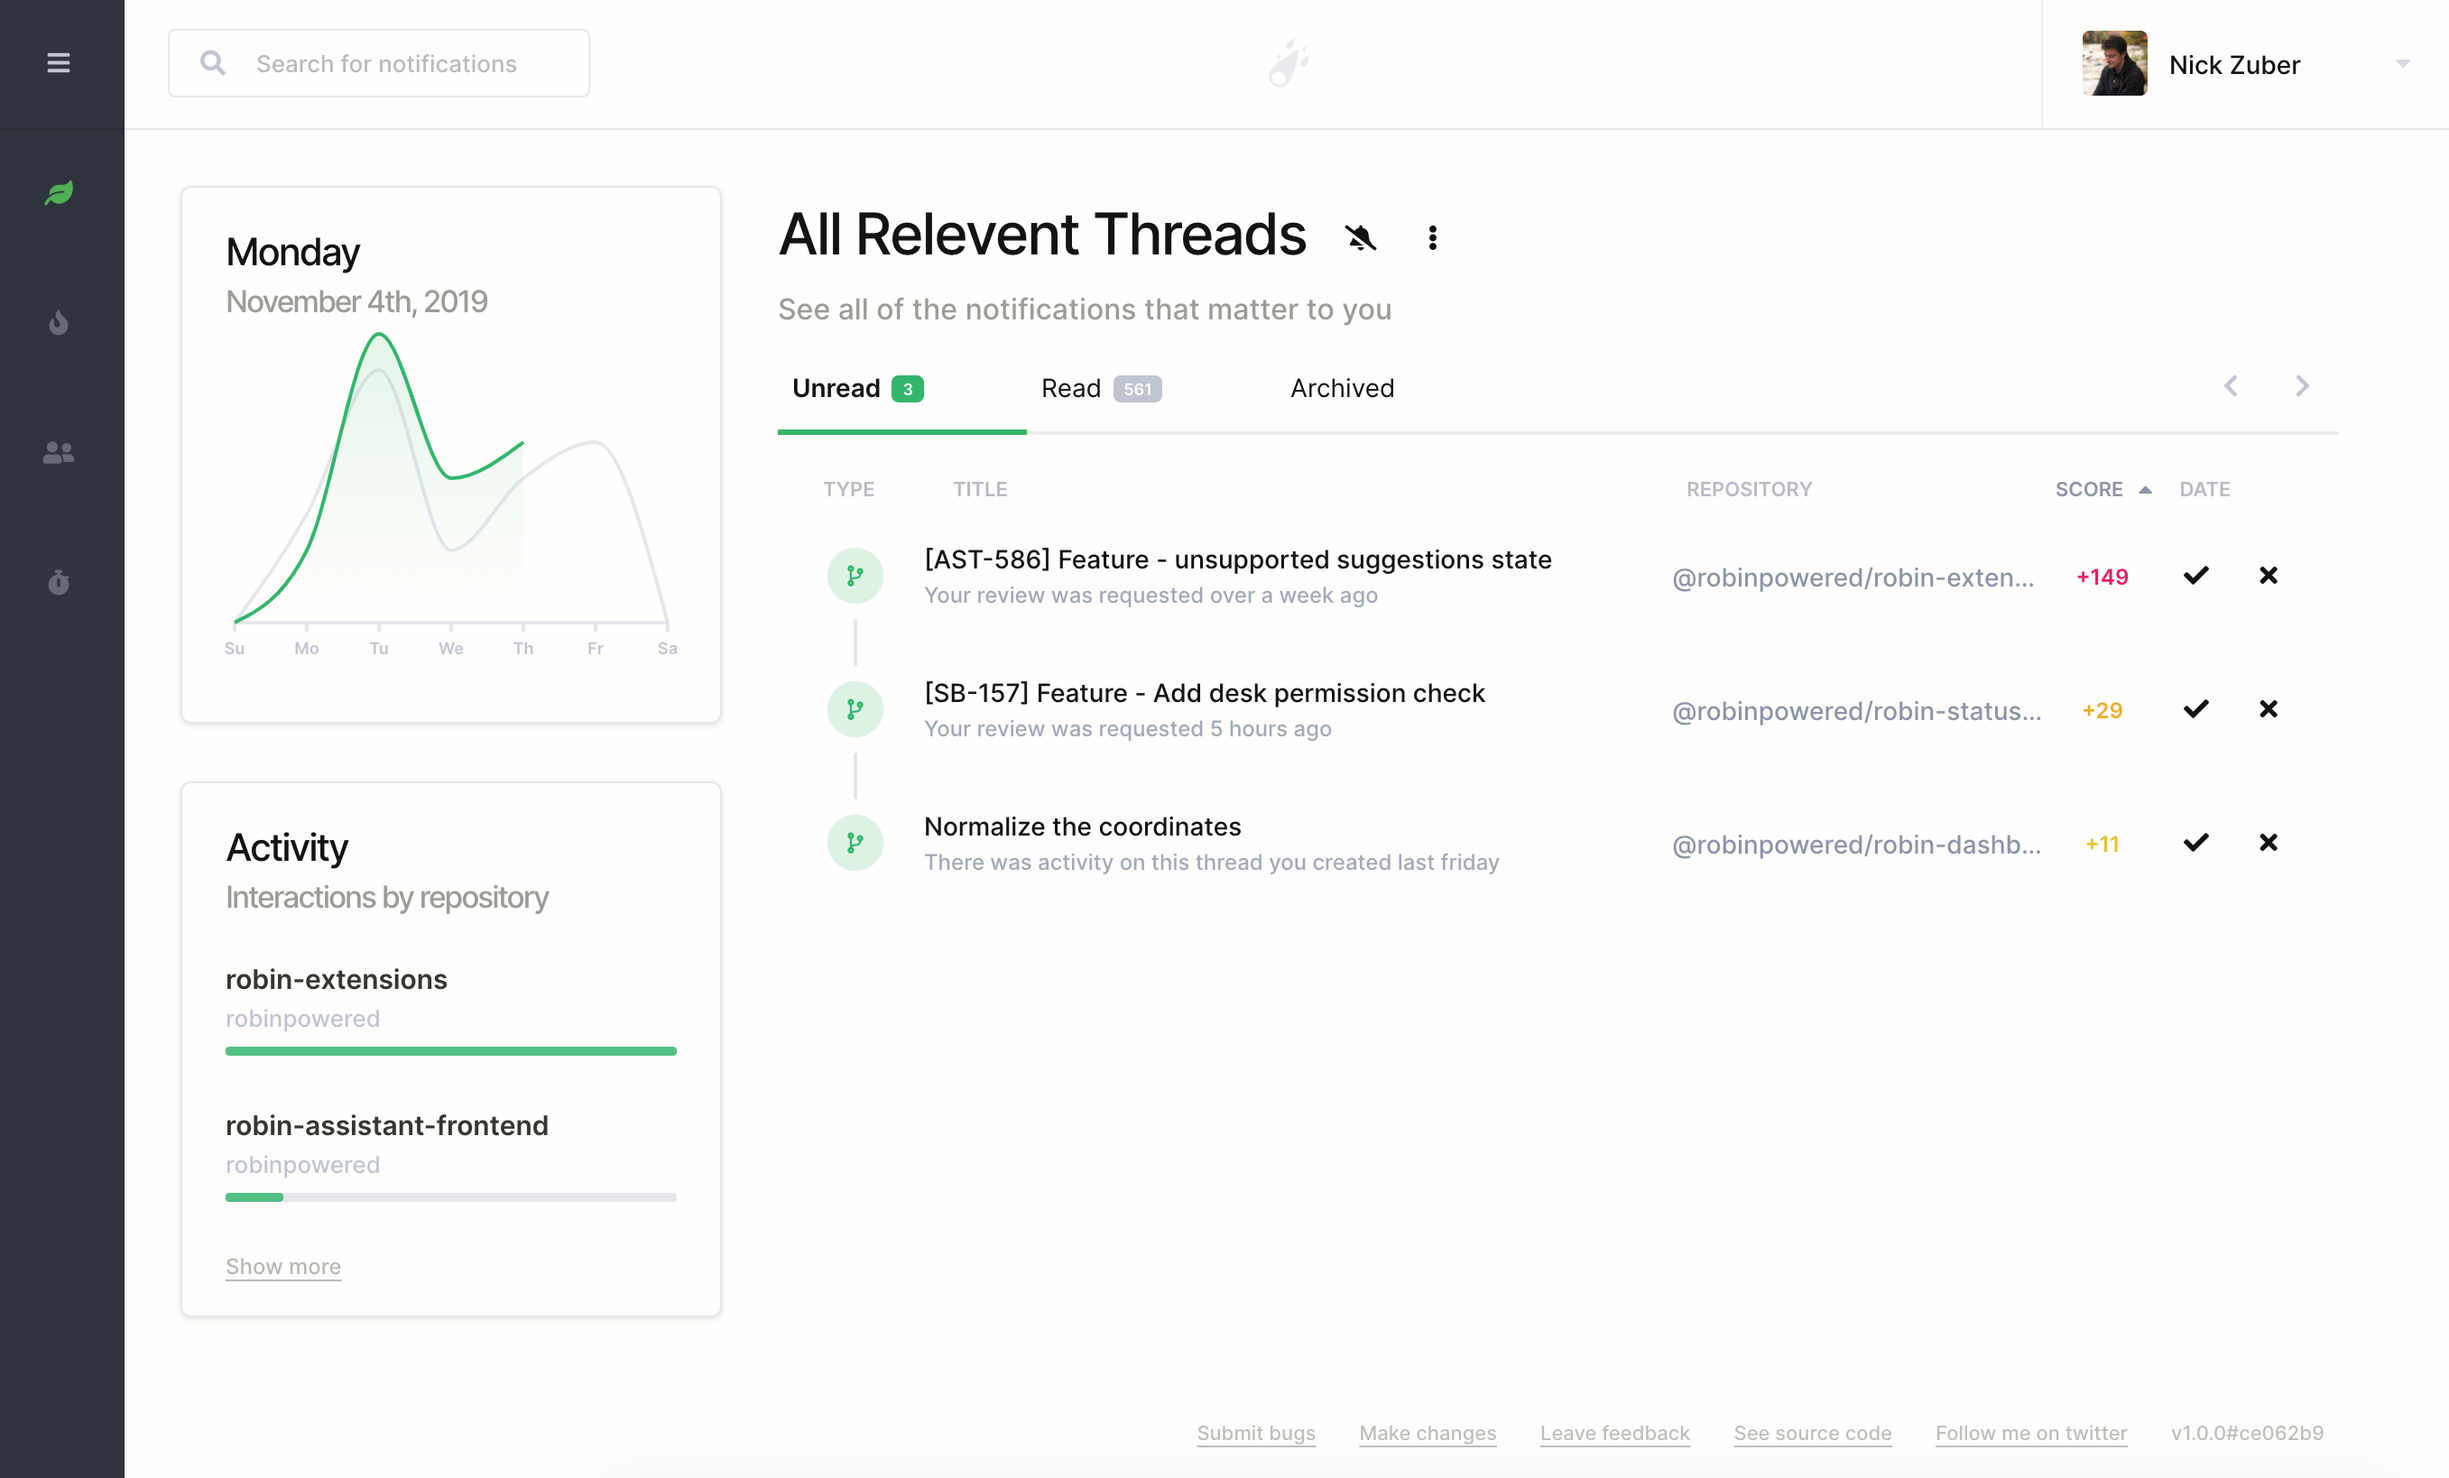
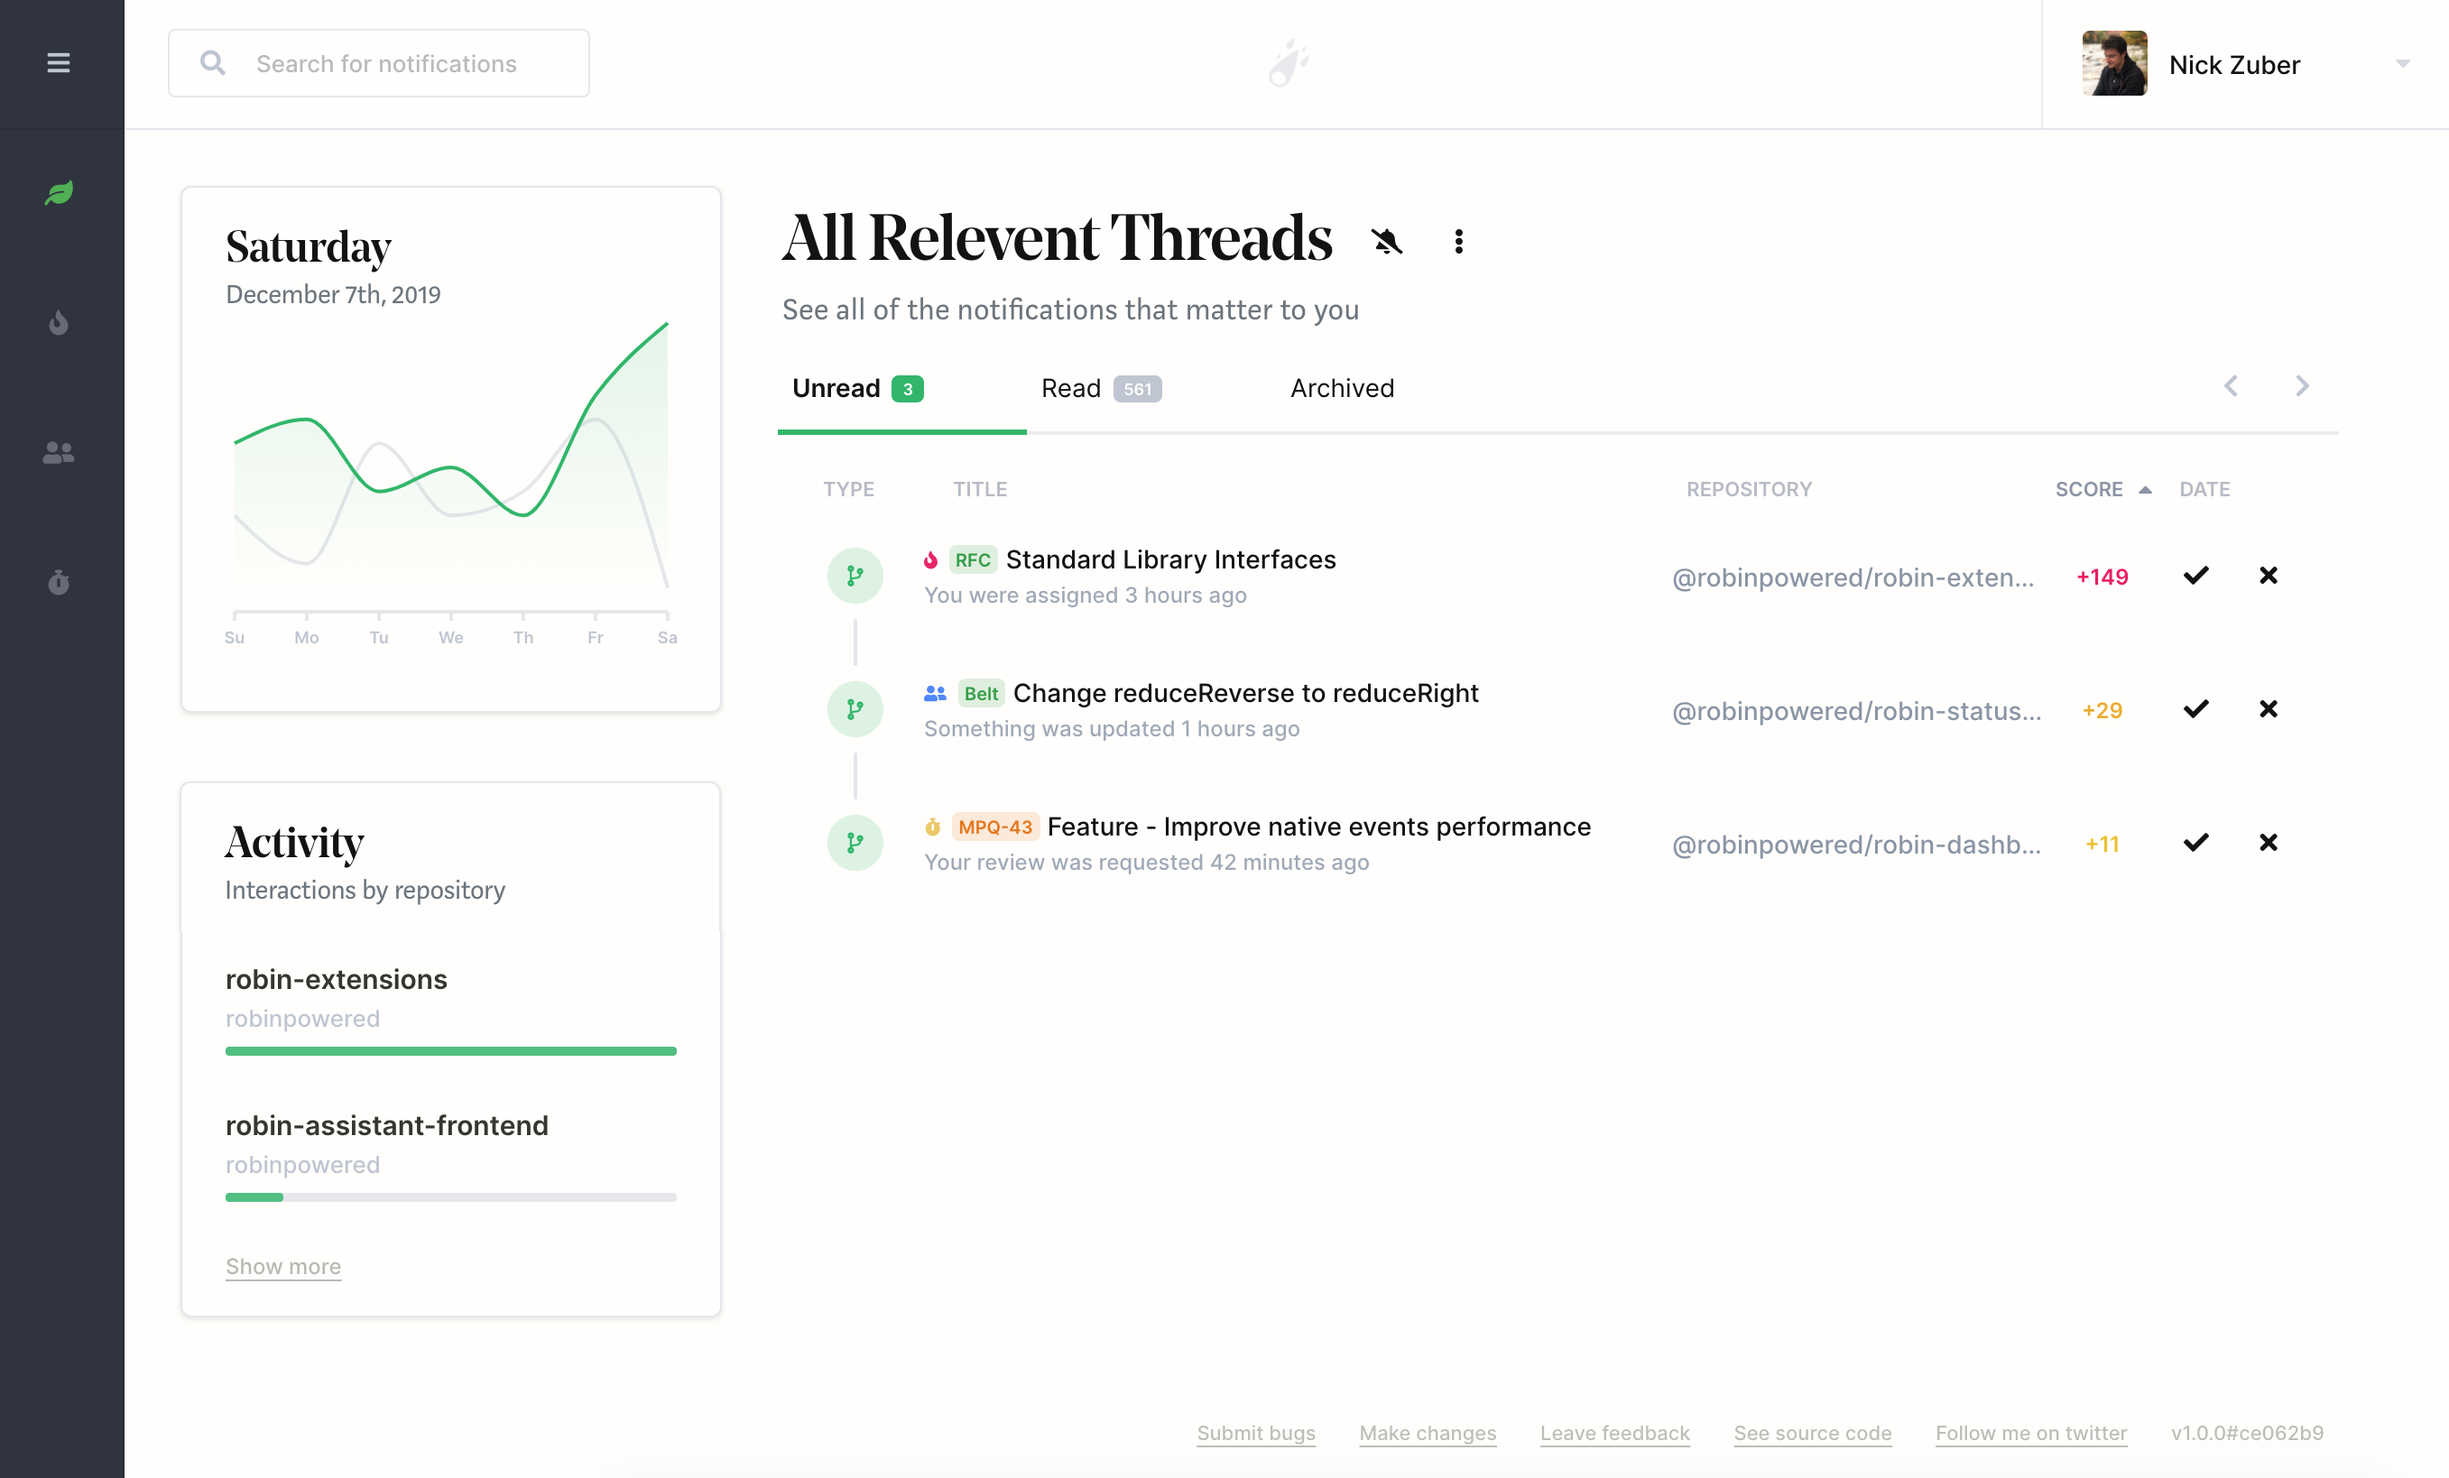
Update home page screenshots, some notification ui tweaks

diff --git a/src/pages/NotificationsRedesign/redesign/ui/ui.js b/src/pages/NotificationsRedesign/redesign/ui/ui.js
@@ -8,7 +8,7 @@ import {navigate} from "@reach/router"
 import {routes} from '../../../../constants';
 import {withOnEnter, withOptimizedTouchEvents} from '../../../../enhance';
 
-export const BLUE = '#27B768';
+export const themeColor = '#27B768';
 export const WHITE = 'rgb(255, 254, 252)';
 export const FOOTER_HEIGHT = '96px';
 export const COLLAPSED_WIDTH = '72px';
@@ -33,10 +33,14 @@ export const Title = withOptimizedTouchEvents(styled('h1')`
   font-size: 32px;
   line-height: 46px;
   font-weight: 500;
-  letter-spacing: -1.05px;
+  letter-spacing: -0.75px;
   @media (max-width: ${WIDTH_FOR_SMALL_SCREENS}) {
     font-size: 28px;
   }
+
+  font-family: medium-marketing-display-font,Georgia,Cambria,Times New Roman,Times,serif;
+  font-size: 36px;
+  line-height: 52px;
 `);
 
 export const Container = withOptimizedTouchEvents(styled('div')`
@@ -133,21 +137,29 @@ export const Card = withOptimizedTouchEvents(styled('div')`
 `);
 
 export const CardTitle = withOptimizedTouchEvents(styled(Title)`
-  line-height: 1.5em;
-  font-size: 1.5em;
+  letter-spacing: -0.25px;
+  line-height: 1.25em;
+  font-size: 1.75em;
 `);
 
 export const CardSubTitle = withOptimizedTouchEvents(styled(CardTitle)`
-  font-size: 1.2em;
-  color: #9d9b97;
+  font-size: 16px;
+  font-family: medium-content-sans-serif-font,Inter UI,system-ui,sans-serif;
+  color: #6c757d;
+  margin-top: 0px;
 `);
 
 export const ScoreDiff = withOptimizedTouchEvents(styled(CardTitle)`
   position: absolute;
+  font-family: Inter;
+  font-size: 18px;
+  line-height: 24px;
+  font-weight: 500;
+  letter-spacing: -0.75px;
   top: 30px;
   right: 24px;
   opacity: ${props => props.show ? '1' : '0'};
-  color: ${props => props.under ? '#bfc5d1' : BLUE};
+  color: ${props => props.under ? '#bfc5d1' : themeColor};
 `);
 
 export const IconContainer = withOptimizedTouchEvents(styled('div')`
@@ -217,6 +229,11 @@ export const SubTitleSection = withOptimizedTouchEvents(styled('div')`
     font-weight: 500;
     font-size: 16px;
     color: #9d9b97;
+
+    font-size: 18px;
+    font-family: medium-content-sans-serif-font,Inter UI,system-ui,sans-serif;
+    color: #6c757d;
+    margin-top: 0px;
   }
 `);
 
@@ -256,7 +273,7 @@ export const SearchField = withOptimizedTouchEvents(styled('div')`
     border: 1px solid #bfc5d1aa;
   }
   &:focus-within {
-    border: 1px solid ${BLUE};
+    border: 1px solid ${themeColor};
     box-shadow: rgba(84,70,35,0.01) 0px 2px 19px 8px, rgba(84, 70, 35, 0.11) 0px 2px 12px;
   }
   i {
@@ -460,11 +477,10 @@ export const NotificationRow = withOptimizedTouchEvents(styled(NotificationRowHe
   user-select: none;
   transition: all 200ms ease;
   &:hover {
-    background: ${WHITE};
-    box-shadow: rgba(20, 20, 20, 0.01) 0px 2px 12px 6px, rgba(20, 20, 20, 0.11) 0px 2px 6px;
+    background: #757d8410;
   };
   &:active {
-    background: #f8f8f8;
+    background: #757d8429;
   };
   @media (max-width: ${WIDTH_FOR_SMALL_SCREENS}) {
     padding: 6px 2px;
@@ -582,7 +598,6 @@ export const ProfileContainer = withOptimizedTouchEvents(styled('div')`
   position: absolute;
   right: 0;
   z-index: 3;
-  background: #fffefc;
   transition: all 200ms ease;
   user-select: none;
   cursor: pointer;
@@ -698,6 +713,14 @@ export function ProfileSection ({user, onLogout}) {
         }}>
           <h2>Go home</h2>
           <p>Head over back to the home page</p>
+        </optimized.div>
+        <optimized.div onClick={event => {
+          event.stopPropagation();
+          navigate(routes.GUIDE);
+          setMenuShow(false);
+        }}>
+          <h2>Read guide</h2>
+          <p>Check out the guide for how to use Meteorite</p>
         </optimized.div>
         <optimized.div onClick={event => {
           event.stopPropagation();

diff --git a/src/pages/NotificationsRedesign/redesign/utils.js b/src/pages/NotificationsRedesign/redesign/utils.js
@@ -15,6 +15,12 @@ export const Colors = [
   '#2f9e44'
 ];
 
+const BadgeColors = {
+  RED: '#e91e63',
+  YELLOW: '#ecc962',
+  BLUE: '#4C84FF'
+}
+
 export function colorOfString (str = '') {
   let i = str.split('').reduce((n, c) => (n + c.charCodeAt()) % Colors.length, 0);
   return Colors[i];
@@ -162,11 +168,11 @@ export function iconsOfBadges (badges) {
   return badges.map(badge => {
     switch (badge) {
       case Badges.HOT:
-        return <i className="fas fa-fire" css={css`color: #e91e63`}></i>;
+        return <i className="fas fa-fire" css={css`color: ${BadgeColors.RED}`}></i>;
       case Badges.COMMENTS:
-        return <i className="fas fa-user-friends" css={css`color: #4C84FF`}></i>;
+        return <i className="fas fa-user-friends" css={css`color: ${BadgeColors.BLUE}`}></i>;
       case Badges.OLD:
-        return <i className="fas fa-stopwatch" css={css`color: #fcc419`}></i>;
+        return <i className="fas fa-stopwatch" css={css`color: ${BadgeColors.YELLOW}`}></i>;
       default:
         return null;
     }
@@ -225,7 +231,7 @@ export function titleOfMode (mode) {
 export function subtitleOfMode (mode) {
   switch (mode) {
     case Mode.ALL:
-      return 'See all of the notifications that matter to you';
+      return 'All of the notifications that matter to you';
     case Mode.HOT:
       return 'Some currently very active threads you care about';
     case Mode.COMMENTS:
@@ -233,6 +239,6 @@ export function subtitleOfMode (mode) {
     case Mode.OLD:
       return 'Older threads that need your review';
     default:
-      return 'See all of the notifications that matter to you';
+      return 'All of the notifications that matter to you';
   }
 }

diff --git a/src/pages/NotificationsRedesign/redesign/Scene.js b/src/pages/NotificationsRedesign/redesign/Scene.js
@@ -234,7 +234,7 @@ function ReadCountGraph ({data, onHover, onExit}) {
       <Tooltip
         isAnimationActive={false}
         wrapperStyle={{
-          opacity: 0.9
+          opacity: 1
         }}
         contentStyle={{
           background: 'rgb(255,254,252)',
@@ -245,7 +245,7 @@ function ReadCountGraph ({data, onHover, onExit}) {
           padding: '6px 12px 8px'
         }}
         itemStyle={{
-          fontSize: 12,
+          transform: 'scale(0.85) translate(-10px, 1px)',
           fontWeight: '500',
           padding: 0,
           opacity: .75
@@ -351,6 +351,10 @@ export default function Scene ({
   readStatistics = readStatistics.map(n => parseInt(n, 10));
   const lastWeekStats = readStatistics.slice(0, 7);
   const thisWeekStats = readStatistics.slice(7);
+
+  // Faux stats for pretty screenshots.
+  // const lastWeekStats = [4, 2, 7, 4, 5, 8, 1];
+  // const thisWeekStats = [7, 8, 5, 6, 4, 9, 12];
 
   const percentageDeltaToday = getPercentageDelta(counts.cur, counts.prev);
   const highestRepoReadCount = Object.values(reposReadCounts).reduce((h, c) => Math.max(h, c), 0);
@@ -989,7 +993,7 @@ function NotificationCollection ({
                     margin-right: 6px;
                   }
                 `}>
-                  {iconsOfBadges(item.badges)}
+                  {view === View.UNREAD && iconsOfBadges(item.badges)}
                   {tags.map(tag => (
                     <JiraTag key={tag} color={colorOfTag(tag)}>
                       {tag}

diff --git a/src/pages/NotificationsRedesign/index.js b/src/pages/NotificationsRedesign/index.js
@@ -112,9 +112,9 @@ function badgesOf (notification) {
     badges.push(Badges.COMMENTS);
   }
   // If you've been tagged in for review and the most recent update happened over
-  // 4 hours ago, that specific time is subject to change.
+  // 3 days ago – but that specific time is subject to change here if we want.
   if (notification.reasons.some(r => r.reason === Reasons.REVIEW_REQUESTED) &&
-      timeSinceLastUpdate > 60 * 4) {
+      timeSinceLastUpdate > 60 * 24 * 3) {
     badges.push(Badges.OLD);
   }
   return badges;
